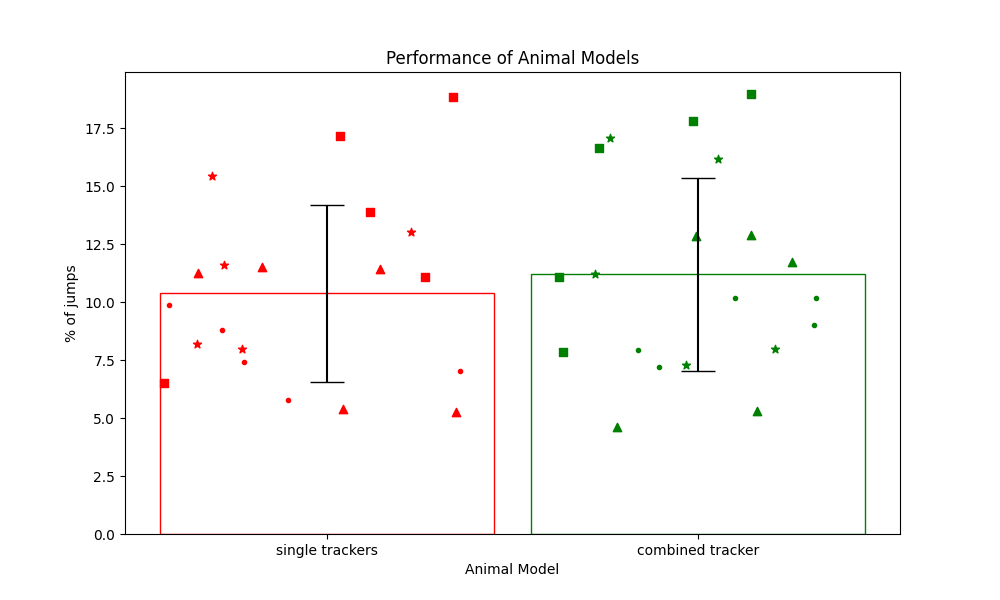
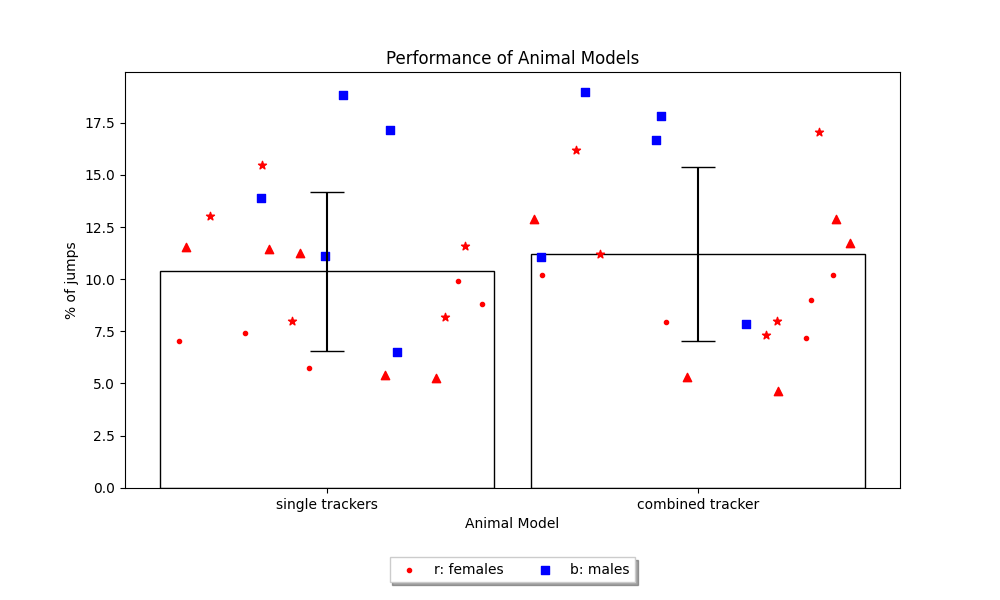
DLC update

diff --git a/DeepLabCut/DLC_jump_analysis/all_trackers/jump_analysis.py b/DeepLabCut/DLC_jump_analysis/all_trackers/jump_analysis.py
@@ -40,7 +40,7 @@ def main(full_path, relative_path, fname):
     #x = [1, 2, 3] # x-coordinates of your bars
     x = [1, 2]
     #colors = ['blue', 'red', 'green']  # corresponding colors
-    colors = ['red','green']
+    colors = ['red','blue']
     #y = Ms22_RC1_Rear5_new_df_values, Ms21_new_df_values, combined_new_df_values
     y = single_trackers_df, combined_new_df_values
 
@@ -53,26 +53,26 @@ def main(full_path, relative_path, fname):
            #tick_label=["Rear5/Ms22", "Ms21", "combined"],#"RC1"],
            tick_label=['single trackers', 'combined tracker'],
            color=(0,0,0,0),  # face color transparent
-           edgecolor=colors,
+           edgecolor=['black'],
          #ecolor=colors,    # error bar colors; setting this raises an error for whatever reason.
          )
 
     for i in range(len(x)):
         #distribute scatter randomly across whole width of bar
         a = y[i]
-        print(y)
-        ax.scatter(x[i] + np.random.random(a[0:5].size) * w - w / 2, a[0:5], color=colors[i], marker='.') #circle marker = Ms21
-        ax.scatter(x[i] + np.random.random(a[5:10].size) * w - w / 2, a[5:10], color=colors[i], marker = "s") #square marker = Ms22
-        ax.scatter(x[i] + np.random.random(a[10:15].size) * w - w / 2, a[10:15], color=colors[i], marker = "*") #star marker = RC1
-        ax.scatter(x[i] + np.random.random(a[15:20].size) * w - w / 2, a[15:20], color=colors[i], marker = "^") #triangle marker = Rear5
+        #print(y)
+        ax.scatter(x[i] + np.random.random(a[0:5].size) * w - w / 2, a[0:5], color=colors[0], marker='.') #circle marker = Ms21
+        ax.scatter(x[i] + np.random.random(a[5:10].size) * w - w / 2, a[5:10], color=colors[1], marker = "s") #square marker = Ms22
+        ax.scatter(x[i] + np.random.random(a[10:15].size) * w - w / 2, a[10:15], color=colors[0], marker = "*") #star marker = RC1
+        ax.scatter(x[i] + np.random.random(a[15:20].size) * w - w / 2, a[15:20], color=colors[0], marker = "^") #triangle marker = Rear5
 
-    # box = ax.get_position()
-    # ax.set_position([box.x0, box.y0 + box.height * 0.1,
-    #                 box.width, box.height * 0.9])
+    box = ax.get_position()
+    ax.set_position([box.x0, box.y0 + box.height * 0.1,
+                     box.width, box.height * 0.9])
 
     # # Put a legend below current axis
-    # ax.legend(loc='upper center', bbox_to_anchor=(0.5, -0.05),
-    #         fancybox=True, shadow=True, ncol=5)
+    ax.legend(loc='upper center', labels = ['r: females', 'b: males'], bbox_to_anchor=(0.5, -0.15),
+            fancybox=False, shadow=True, ncol=5)
 
     
     plt.title("Performance of Animal Models")
